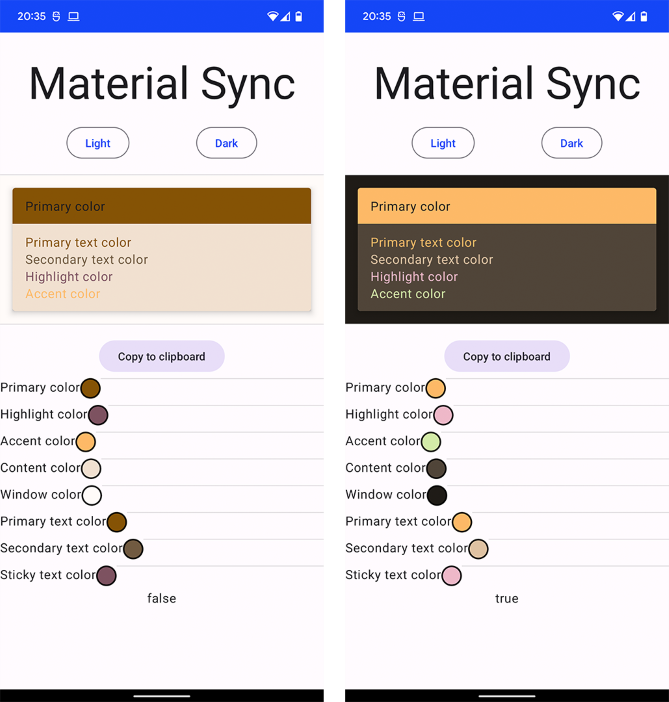
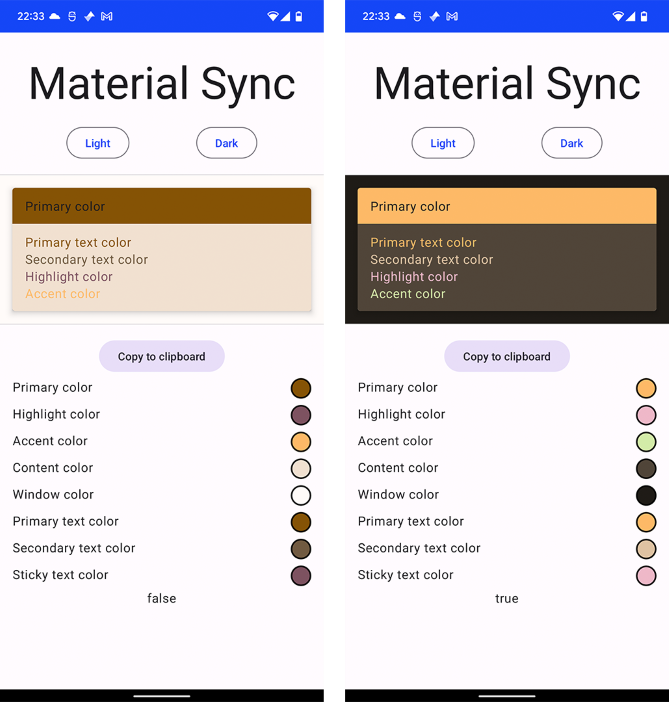
Remove divider from colors

diff --git a/app/src/main/java/dev/dorssers/materialsync/ui/components/ColorSelector.kt b/app/src/main/java/dev/dorssers/materialsync/ui/components/ColorSelector.kt
@@ -26,7 +26,7 @@ import dev.dorssers.materialsync.data.getNamedColors
 fun ColorList(syncTheme: SyncTheme, colorOptions: List<NamedColor>) {
     val items = syncTheme.toColorList()
     val collapsedState = remember(items) { items.map { true }.toMutableStateList() }
-    Column(Modifier.fillMaxWidth()) {
+    Column(Modifier.fillMaxWidth().padding(start=16.dp, end=16.dp)) {
 //        items.forEach { (name, color) -> ColorExample(name = name, color = color.color)}
         items.forEachIndexed { index, (name, color) ->
             val collapsed = collapsedState[index]
@@ -65,7 +65,6 @@ fun ColorExample(
                 .background(color)
                 .border(2.dp, Color.Black, shape = CircleShape)
         )
-        Divider()
     }
     if (!collapsed) {
         colorOptions.forEach {
